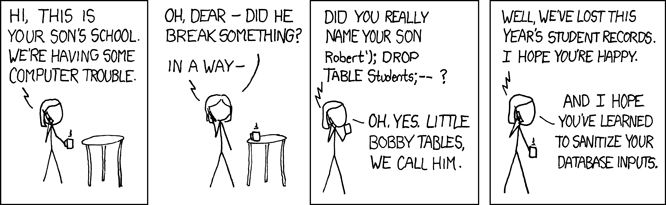
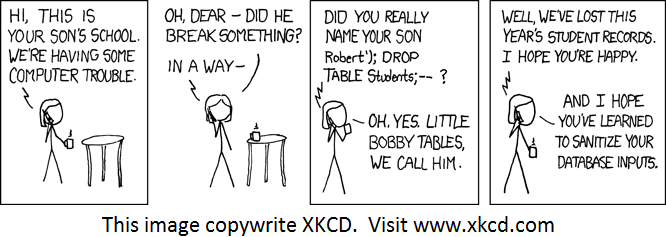
Converted hard tabs to spaces. Added XKCD copywrite notice to 'Exploits of a Mom' image. Fixed a few typos in comments. Added install sub-directory and moved relevant files into it. Created skeleton for install process.

Changed region(s): [[0.0, 0.0, 1.0, 1.0], [0.2402, 0.0293, 0.4505, 0.2049], [0.8408, 0.761, 0.991, 0.8195]]

diff --git a/draw_daily.php b/draw_daily.php
@@ -12,23 +12,23 @@ function bobby_tables()
   $buffer = "";
   $url_stuff = parse_url( "http://jongleur.theinscrutable.us:31080/Thermo/images/exploits_of_a_mom.png" );
 
-	$port = isset($url_stuff['port']) ? $url_stuff['port'] : 80;
+  $port = isset($url_stuff['port']) ? $url_stuff['port'] : 80;
 
-	$fp = fsockopen($url_stuff['host'], $port);
+  $fp = fsockopen($url_stuff['host'], $port);
 
-	$query  = 'GET ' . $url_stuff['path'] . " HTTP/1.0\n";
-	$query .= 'Host: ' . $url_stuff['host'];
-	$query .= "\n\n";
+  $query  = 'GET ' . $url_stuff['path'] . " HTTP/1.0\n";
+  $query .= 'Host: ' . $url_stuff['host'];
+  $query .= "\n\n";
 
-	fwrite($fp, $query);
+  fwrite($fp, $query);
 
-	while ($tmp = fread($fp, 1024))
-	{
-			$buffer .= $tmp;
-	}
+  while ($tmp = fread($fp, 1024))
+  {
+      $buffer .= $tmp;
+  }
 
-	preg_match('/Content-Length: ([0-9]+)/', $buffer, $parts);
-	echo substr($buffer, - $parts[1]);
+  preg_match('/Content-Length: ([0-9]+)/', $buffer, $parts);
+  echo substr($buffer, - $parts[1]);
 }
 
 //session_start();
@@ -182,11 +182,11 @@ while( $row = mysql_fetch_array( $result ) )
     $MyData->addPoints( $row['indoor_temp'], "Indoor" );
     $MyData->addPoints( $row['outdoor_temp'], "Outdoor" );
 
-	// Expand chart boundaries to contain data that exceeds the default boundaries
-	if( $row['indoor_temp'] < $chart_y_min ) $chart_y_min = $row['indoor_temp'];
-	if( $row['indoor_temp'] > $chart_y_max ) $chart_y_max = $row['indoor_temp'];
-	if( $row['outdoor_temp'] < $chart_y_min ) $chart_y_min = $row['outdoor_temp'];
-	if( $row['outdoor_temp'] > $chart_y_max ) $chart_y_max = $row['outdoor_temp'];
+  // Expand chart boundaries to contain data that exceeds the default boundaries
+  if( $row['indoor_temp'] < $chart_y_min ) $chart_y_min = $row['indoor_temp'];
+  if( $row['indoor_temp'] > $chart_y_max ) $chart_y_max = $row['indoor_temp'];
+  if( $row['outdoor_temp'] < $chart_y_min ) $chart_y_min = $row['outdoor_temp'];
+  if( $row['outdoor_temp'] > $chart_y_max ) $chart_y_max = $row['outdoor_temp'];
   }
   else
   {
@@ -247,7 +247,7 @@ $myPicture->drawText( 250, 55, "Temperature every 30 minutes since midnight", ar
 // Define the chart area
 $myPicture->setGraphArea( 60, 60, 850, 390 );
 
-// Explicity set a scale for teh drawing.
+// Explicity set a scale for the drawing.
 $AxisBoundaries = array( 0 => array ( "Min" => $chart_y_min, "Max" => $chart_y_max ) );
 // Draw the scale
 $myPicture->setFontProperties( array( "FontName" => "lib/pChart2.1.3/fonts/pf_arma_five.ttf", "FontSize" => 6 ) );
@@ -267,54 +267,55 @@ $myPicture->drawLegend( 710, 412, array( "Style" => LEGEND_NOBORDER, "Mode" => L
 
 if( $show_cycles == 1 )
 {
-	//$start_date = strftime( "%Y-%m-%d 00:00:00", strtotime("-1 day", strtotime($show_date))); // "2012-07-09 00:00:00";
-	$start_date = strftime( "%Y-%m-%d 00:00:00", strtotime($show_date));
-	$end_date = strftime( "%Y-%m-%d 00:00:00", strtotime("+1 day", strtotime($show_date)));   // "2012-07-11 00:00:00";
+  //$start_date = strftime( "%Y-%m-%d 00:00:00", strtotime("-1 day", strtotime($show_date))); // "2012-07-09 00:00:00";
+  $start_date = strftime( "%Y-%m-%d 00:00:00", strtotime($show_date));
+  $end_date = strftime( "%Y-%m-%d 00:00:00", strtotime("+1 day", strtotime($show_date)));   // "2012-07-11 00:00:00";
 
-	$sql = "SELECT system, date_format( start_time, \"%k\" ) AS start_hour, trim(LEADING \"0\" FROM date_format( start_time, \"%i\" ) ) AS start_minute, date_format( end_time, \"%k\" ) AS end_hour, trim( LEADING \"0\" FROM date_format( end_time, \"%i\" ) ) AS end_minute FROM thermo_hvac_cycles WHERE start_time > \"$start_date\" AND end_time < \"$end_date\" ORDER BY start_time ASC";
+  $sql = "SELECT system, date_format( start_time, \"%k\" ) AS start_hour, trim(LEADING \"0\" FROM date_format( start_time, \"%i\" ) ) AS start_minute, date_format( end_time, \"%k\" ) AS end_hour, trim( LEADING \"0\" FROM date_format( end_time, \"%i\" ) ) AS end_minute FROM thermo_hvac_cycles WHERE start_time > \"$start_date\" AND end_time < \"$end_date\" ORDER BY start_time ASC";
 
 //echo "<br>SQL is $sql";
-	$result = mysql_query( $sql );
+  $result = mysql_query( $sql );
 //echo "<br>result is ($result)";
 
-	$HeatRectSettings = array( "R"=>200, "G"=>100, "B"=>100, "Alpha"=>75 );
-	$CoolRectSettings = array( "R"=>50, "G"=>50, "B"=>200, "Alpha"=>75 );
-	$FanRectSettings  = array( "R"=>255, "G"=>255, "B"=>0, "Alpha"=>75 );
-	$RectHeight = 20;
-	$RectCornerRadius = 3;
-	$HeatRectRow = 150;
-	$CoolRectRow = 175;
-	$FanRectRow = 200;
-	$LeftMargin = 60;
+  $HeatRectSettings = array( "R" => 200, "G" => 100, "B" => 100, "BorderR" =>  0, "BorderG" =>  0, "BorderB" => 0, "Alpha" => 75 );
+  $CoolRectSettings = array( "R" =>  50, "G" =>  50, "B" => 200, "BorderR" =>  0, "BorderG" =>  0, "BorderB" => 0, "Alpha" => 75 );
+  $FanRectSettings  = array( "R" => 255, "G" => 255, "B" =>   0, "BorderR" =>  1, "BorderG" =>  1, "BorderB" => 1, "Alpha" => 75 );
+  $RectHeight = 20;
+  $RectCornerRadius = 3;
+  $HeatRectRow = 150;
+  $CoolRectRow = 175;
+  $FanRectRow = 200;
+  $LeftMargin = 60;
 
-	// Cycle data is represented by drawing objects, so it has to be AFTER the creation of $myPicture
-	while( $row = mysql_fetch_array( $result ) )
-	{
-		/*
-		 * Assumptions:
-		 *  1. The chart X-axis represents 24 hours
-		 *  2. The chart horizontal area is XX pixels wide (so each minute is ZZ pixels)
-		 */
-		//$myPicture->drawRoundedFilledRectangle( 120, $HeatRectRow, 300, $HeatRectRow + $RectHeight, $RectCornerRadius, $HeatRectSettings );
+  // Cycle data is represented by drawing objects, so it has to be AFTER the creation of $myPicture
+  while( $row = mysql_fetch_array( $result ) )
+  {
+    /*
+     * Assumptions:
+     *  1. The chart X-axis represents 24 hours
+     *  2. The chart horizontal area is XX pixels wide (so each minute is ZZ pixels)
+     */
+    //$myPicture->drawRoundedFilledRectangle( 120, $HeatRectRow, 300, $HeatRectRow + $RectHeight, $RectCornerRadius, $HeatRectSettings );
 
-		// "YYYY-MM-DD HH:mm:00"
-		// 20 + ((HH*60) + mm) * ((900-40)/1440)
-		$cycle_start = $LeftMargin + (($row['start_hour'] * 60) + $row['start_minute'] ) * 0.542;
-		$cycle_end   = $LeftMargin + (($row['end_hour']   * 60) + $row['end_minute'] ) * 0.542;
+    // "YYYY-MM-DD HH:mm:00"
+    // 20 + ((HH*60) + mm) * ((900-40)/1440)
+    $cycle_start = $LeftMargin + (($row['start_hour'] * 60) + $row['start_minute'] ) * 0.542;
+    $cycle_end   = $LeftMargin + (($row['end_hour']   * 60) + $row['end_minute'] ) * 0.542;
 
-		if( $row['system'] == 1 )
-		{ // Heat
-			$myPicture->drawRoundedFilledRectangle( $cycle_start, $HeatRectRow, $cycle_end, $HeatRectRow + $RectHeight, $RectCornerRadius, $HeatRectSettings );
-		}
-		else if( $row['system'] == 2 )
-		{ // A/C
-			$myPicture->drawRoundedFilledRectangle( $cycle_start, $CoolRectRow, $cycle_end, $CoolRectRow + $RectHeight, $RectCornerRadius, $CoolRectSettings );
-		}
-		else if( $row['system']== 3 )
-		{ // Fan
-			$myPicture->drawRoundedFilledRectangle( $cycle_start, $FanRectRow, $cycle_end, $FanRectRow + $RectHeight, $RectCornerRadius, $FanRectSettings );
-		}
-	}
+    //$myPicture->setShadow( TRUE, array( "X" => -1, "Y" => 1, "R" => 0, "G" => 0, "B" => 0, "Alpha" => 75 ) );
+    if( $row['system'] == 1 )
+    { // Heat
+      $myPicture->drawRoundedFilledRectangle( $cycle_start, $HeatRectRow, $cycle_end, $HeatRectRow + $RectHeight, $RectCornerRadius, $HeatRectSettings );
+    }
+    else if( $row['system'] == 2 )
+    { // A/C
+      $myPicture->drawRoundedFilledRectangle( $cycle_start, $CoolRectRow, $cycle_end, $CoolRectRow + $RectHeight, $RectCornerRadius, $CoolRectSettings );
+    }
+    else if( $row['system']== 3 )
+    { // Fan
+      $myPicture->drawRoundedFilledRectangle( $cycle_start, $FanRectRow, $cycle_end, $FanRectRow + $RectHeight, $RectCornerRadius, $FanRectSettings );
+    }
+  }
 
 }
 mysql_close( $link );

diff --git a/install/index.php b/install/index.php
@@ -1,0 +1,65 @@
+<?php
+
+if (version_compare(PHP_VERSION, '4.3.3') < 0)
+{ // Check php version.  I'm not sure there is a minimum requirement, but be safe.  (This logic is borrowed from phpBB installer)
+  die('You are running an unsupported PHP version. Please upgrade to PHP 4.3.3 or higher before trying to 3M-50 Thermostat Tracking');
+}
+
+// Reset fatal_error flag and check for presence of all required files.
+$fatal_error = 0;
+function check_file( $filename )
+{
+  if( !is_file( $filename ) )
+  {
+    echo "<br>The file $filename is missing, please check your download for completeness.";
+    $fatal_error = $fatal_error + 1;
+  }
+}
+// Check for presence of expected directories (pChart directory must be preset, but do not cehck for every file in there)
+// Check for presence of expected files (check for every file that is unique to this program)
+check_file( "../index.php" );
+if( $fatal_error > 0 )
+{
+  echo "Some of the errors that were detected will prevent this software from working.  Please correct them and try again.";
+  exit();
+}
+
+
+// Reset fatal_error flag and cehck for errors in SQL stuff
+
+// Ask for database connection info (server name, port, user ID, password)
+// Test that connection works
+// Test that ID has permission to create tables
+// Test that ID has permission to insert, update, delete data
+
+// The SQL should test for presence of the tables before simply adding them.
+// Should the SQL be a in a separate .sql text file or shoulkd it be coded into this .php file?
+
+// Need a meta data table that contains the version number in case future installs need to alter the table to update.
+
+
+// Reset fatal_error flag and test thermostat config
+
+// Ask for thermostat config information (IP address, etc...)
+// Communicate with thermostat and get firmware version number (as proof of connection)
+// Do I need to check the stat firmware revision level for compatibility?
+
+
+// Reset fatal_error flag and write the config.php file
+
+// Collect the rest of the info to put in config.php (ZIP code, timezone, etc...)
+// Default config.php should contain a version number that matches the one in the table
+// This file should have a hard coded version number that matches the label applied in git.
+
+
+// Reset fatal_error flag and write the config.php file
+
+// Ask for scheduler info (windows ID, password)  Might be same as ID that runs Apache?
+// Create both task schedules
+// Check the schedules to see if they are in there.
+// Wait one minute to see if the status update has created a record "select count(*) from ..." should come back with a number > 0
+
+
+// Let user know that he shuold wait several hours before a useful amount of data will have accumulated, but that collection is starting immediatly.
+
+?>

diff --git a/index.php b/index.php
@@ -4,13 +4,13 @@
   <link rel="shortcut icon" href="./favicon.ico">
   <link rel="stylesheet"    href="t_css.css" type="text/css">
 
-	<script>
-	  function update_daily()
-		{
-		  html_text = "<img src=\'draw_daily.php?show_date=" + document.getElementById('show_date').value + "&show_cycles=" + document.getElementById('show_cycles').checked + "\' alt=\'The temperatures\'>";
-		  document.getElementById('daily_chart').innerHTML = html_text;
-		}
-	</script>
+  <script>
+    function update_daily()
+    {
+      html_text = "<img src=\'draw_daily.php?show_date=" + document.getElementById('show_date').value + "&show_cycles=" + document.getElementById('show_cycles').checked + "\' alt=\'The temperatures\'>";
+      document.getElementById('daily_chart').innerHTML = html_text;
+    }
+  </script>
 </head>
 <body>
 <?php
@@ -26,7 +26,7 @@ HTML5: Pick a date or click the increment/decrement buttons and the chart will a
        type="date"
        value="<?php echo date( "Y-m-d", $show_date); ?>"
        max="<?php echo date( "Y-m-d", $show_date); ?>"
-			 onInput="javscript: update_daily();"
+       onInput="javscript: update_daily();"
        step="1"/>
 <button type="button" onclick="javascript: document.getElementById('show_date').stepUp();update_daily();">--&gt;</button>
 <input type="checkbox" id="show_cycles" name="show_cycles" onChange="javascript: update_daily();"/>Show Cycles
@@ -75,7 +75,7 @@ Try showing a range of dates
     <center>
       <div id="daily_chart" style="height: 329px; width: 900px;">
         <img src="draw_weekly.php?Indoor=1" alt="All Time Indoor History">
-			<div>
+      <div>
     </center>
   </div>
 </div>
@@ -87,7 +87,7 @@ Hi/Low temps
     <center>
       <div id="daily_chart" style="height: 329px; width: 900px;">
         <img src="draw_weekly.php?Indoor=0" alt="All Time Outdoor History">
-			<div>
+      <div>
     </center>
   </div>
 </div>

diff --git a/draw_weekly.php b/draw_weekly.php
@@ -28,27 +28,27 @@ while( $row = mysql_fetch_array( $result ) )
 {
   /*
    *   There are too many dates to show them ALL on the x-axis - it turns into one black line.
-	 *
-	 *   The original logic was to search for the first of the month like this:
-	 *    else if( substr( $row['date'], 8, 2 ) == "01" )
-	 *
-	 *   However it turns out that sometimes there is NO data at all for a given date.
-	 * So the new logic is to look for when the month changes and show that date.
-	 */
+   *
+   *   The original logic was to search for the first of the month like this:
+   *    else if( substr( $row['date'], 8, 2 ) == "01" )
+   *
+   *   However it turns out that sometimes there is NO data at all for a given date.
+   * So the new logic is to look for when the month changes and show that date.
+   */
   if( $old_month == -1 )
-	{ // Do show the WHOLE date for the first item.
-		$MyData->addPoints( $row['date'], "Labels" );
-	}
+  { // Do show the WHOLE date for the first item.
+    $MyData->addPoints( $row['date'], "Labels" );
+  }
   else if( substr( $row['date'], 5, 2 ) != $old_month )
-	{ // Thereafter show only MM-DD when you show anything at all
-		// Show month name ala "Dec"
+  { // Thereafter show only MM-DD when you show anything at all
+    // Show month name ala "Dec"
     $MyData->addPoints( date("M", mktime( 0, 0, 0, substr( $row['date'], 5, 2 ), 1) ), "Labels" );
-	}
-	else
-	{ // Add a blank instead of text for some x-axis labels.
+  }
+  else
+  { // Add a blank instead of text for some x-axis labels.
     $MyData->addPoints( VOID, "Labels" );
-	}
-	$old_month = substr( $row['date'], 5, 2 );
+  }
+  $old_month = substr( $row['date'], 5, 2 );
 
 
   if( $_GET["Indoor"] == 1 )

diff --git a/draw_runtimes.php b/draw_runtimes.php
@@ -12,23 +12,23 @@ function bobby_tables()
   $buffer = "";
   $url_stuff = parse_url( "http://jongleur.theinscrutable.us:31080/Thermo/images/exploits_of_a_mom.png" );
 
-	$port = isset($url_stuff['port']) ? $url_stuff['port'] : 80;
+  $port = isset($url_stuff['port']) ? $url_stuff['port'] : 80;
 
-	$fp = fsockopen($url_stuff['host'], $port);
+  $fp = fsockopen($url_stuff['host'], $port);
 
-	$query  = 'GET ' . $url_stuff['path'] . " HTTP/1.0\n";
-	$query .= 'Host: ' . $url_stuff['host'];
-	$query .= "\n\n";
+  $query  = 'GET ' . $url_stuff['path'] . " HTTP/1.0\n";
+  $query .= 'Host: ' . $url_stuff['host'];
+  $query .= "\n\n";
 
-	fwrite($fp, $query);
+  fwrite($fp, $query);
 
-	while ($tmp = fread($fp, 1024))
-	{
-			$buffer .= $tmp;
-	}
+  while ($tmp = fread($fp, 1024))
+  {
+      $buffer .= $tmp;
+  }
 
-	preg_match('/Content-Length: ([0-9]+)/', $buffer, $parts);
-	echo substr($buffer, - $parts[1]);
+  preg_match('/Content-Length: ([0-9]+)/', $buffer, $parts);
+  echo substr($buffer, - $parts[1]);
 }
 
 //session_start();

diff --git a/draw_range.php b/draw_range.php
@@ -160,10 +160,10 @@ foreach( array("2012-07-05", "2012-07-06") as $show_date )
         $MyData->addPoints( substr( $row['date'], 11, 5 ), "Labels" );
         $counter = 0;
       }
-			else
-			{
-	      $MyData->addPoints( VOID, "Labels" );
-			}
+      else
+      {
+        $MyData->addPoints( VOID, "Labels" );
+      }
       $counter++;
     }
     else
